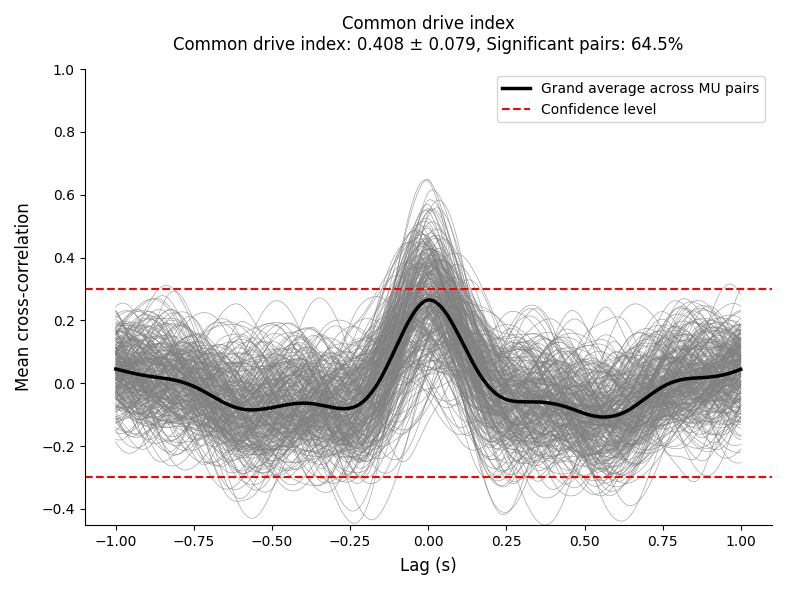
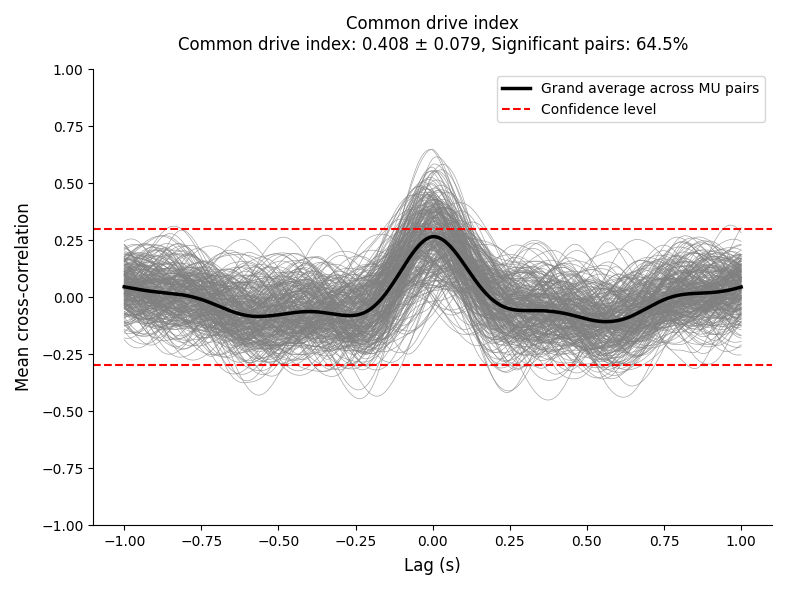
Update commonality
New examples in the commonality module and minor fix in plot_common_drive_index y limits

diff --git a/openhdemg/library/commonality.py b/openhdemg/library/commonality.py
@@ -86,6 +86,30 @@ def pooled_intramuscular_coherence(
         - "cst_duration_seconds": the duration of the cumulative spike trains
         in seconds (float).
         - "fsamp": the sampling frequency in Hz (float).
+
+    Examples
+    --------
+    Estimate pooled intramuscular coherence with overlapping windows.
+
+    >>> import openhdemg.library as emg
+    >>> emgfile = emg.emg_from_samplefile()
+    >>> coherence_results = emg.pooled_intramuscular_coherence(
+    ...     emgfile=emgfile,
+    ...     number_iterations=100,
+    ...     window_duration_seconds=1,
+    ...     overlap_seconds=0.5,
+    ... )
+    >>> coherence_results["coherence"]
+
+    Estimate coherence without overlapping windows.
+
+    >>> coherence_results = emg.pooled_intramuscular_coherence(
+    ...     emgfile=emgfile,
+    ...     number_iterations=100,
+    ...     window_duration_seconds=1,
+    ...     overlap_seconds=0,
+    ... )
+    >>> coherence_results["coherence"]
     """
 
     # ----------------------------------
@@ -366,6 +390,19 @@ def z_score_coherence(coherence_results):
 
         - "z_score": the z-scored coherence curve (numpy array)
         - "factor": the factor used for z-scoring (float)
+
+    Examples
+    --------
+    Z-score the coherence curve returned by pooled_intramuscular_coherence().
+
+    >>> import openhdemg.library as emg
+    >>> emgfile = emg.emg_from_samplefile()
+    >>> coherence_results = emg.pooled_intramuscular_coherence(
+    ...     emgfile=emgfile,
+    ...     overlap_seconds=0.5,
+    ... )
+    >>> z_score_results = emg.z_score_coherence(coherence_results)
+    >>> z_score_results["z_score"]
     """
 
     # ----------------------------------
@@ -526,6 +563,23 @@ def calculate_coherence_bands(
         the confidence level.
         - "auc_gamma": area under the coherence/z-score curve in the gamma
         band above the confidence level.
+
+    Examples
+    --------
+    Calculate frequency-band summaries from a z-scored coherence curve.
+
+    >>> import openhdemg.library as emg
+    >>> emgfile = emg.emg_from_samplefile()
+    >>> coherence_results = emg.pooled_intramuscular_coherence(
+    ...     emgfile=emgfile,
+    ...     overlap_seconds=0.5,
+    ... )
+    >>> z_score_results = emg.z_score_coherence(coherence_results)
+    >>> coherence_band_results = emg.calculate_coherence_bands(
+    ...     coherence_results=z_score_results,
+    ...     confidence_level_type="theoretical",
+    ... )
+    >>> coherence_band_results
     """
 
     # ----------------------------------
@@ -569,6 +623,14 @@ def calculate_coherence_bands(
             # 95th percentile of the standard normal distribution
         else:
             L = int(np.floor(cst_duration_seconds / window_duration_seconds))
+
+            if L <= 1:
+                raise ValueError(
+                    "The theoretical confidence level for raw coherence "
+                    "requires at least 2 non-overlapping segments. Increase "
+                    "cst_duration_seconds or reduce window_duration_seconds."
+                )
+
             confidence_level = 1 - 0.05 ** (1 / (L - 1))
     else:
         msg = (
@@ -676,6 +738,19 @@ def smooth_spiketrains_convolution(
         Smoothed MU discharge rates obtained by convolving the binary
         spike train with the specified window. Arrangement of the output array
         is the same as binary_mus_firing (samples x MUs).
+
+    Examples
+    --------
+    Smooth the binary spike trains stored in an EMG file.
+
+    >>> import openhdemg.library as emg
+    >>> emgfile = emg.emg_from_samplefile()
+    >>> binary_mus_firing = emgfile["BINARY_MUS_FIRING"].to_numpy()
+    >>> smoothed_mus_firing = emg.smooth_spiketrains_convolution(
+    ...     binary_mus_firing=binary_mus_firing,
+    ...     fsamp=emgfile["FSAMP"],
+    ... )
+    >>> smoothed_mus_firing
     """
 
     # ----------------------------------
@@ -824,6 +899,19 @@ def smoothed_dr_pca(
     we reccomend using parallel analysis as it is more robust and data-driven
     than arbitrary thresholds (e.g., eigenvalue > 1 or variance explained >
     80%).
+
+    Examples
+    --------
+    Estimate PCA components from smoothed MU discharge-rate profiles.
+
+    >>> import openhdemg.library as emg
+    >>> emgfile = emg.emg_from_samplefile()
+    >>> pca_results = emg.smoothed_dr_pca(
+    ...     emgfile=emgfile,
+    ...     method_n_components="parallel_analysis",
+    ... )
+    >>> pca_results["number_of_components_retained"]
+    >>> pca_results["explained_variance"]
     """
 
     # ----------------------------------
@@ -1166,6 +1254,15 @@ def common_drive_index(
         Segments will overlap by overlap_corr_seconds. 0.0 means no overlap.
     max_lag_seconds : float, default 0.1
         Maximum lag for cross-correlation, in seconds.
+    number_of_surrogates : int, default 2
+        Number of surrogate spike-train sets used to estimate the confidence
+        level. Surrogates are generated by independently shuffling the
+        interspike intervals of each MU.
+    confidence_percentile : float, default 95
+        Percentile of surrogate peak correlations used as the confidence level
+        to determine whether each pairwise correlation is significant.
+    random_state : int, default 42
+        Random seed for reproducible surrogate generation.
 
     Returns
     -------
@@ -1206,6 +1303,21 @@ def common_drive_index(
         corr_signals_all_pairs (numpy array).
         - "lags_seconds": lags used to calculate the cross-correlation signals
         (numpy array).
+
+    Examples
+    --------
+    Calculate the common drive index using non-overlapping 5-second
+    correlation windows.
+
+    >>> import openhdemg.library as emg
+    >>> emgfile = emg.emg_from_samplefile()
+    >>> cdi_results = emg.common_drive_index(
+    ...     emgfile=emgfile,
+    ...     window_corr_seconds=5,
+    ...     overlap_corr_seconds=0,
+    ... )
+    >>> cdi_results["pairwise_correlation"]
+    >>> cdi_results["common_drive_index_mean"]
     """
 
     # ----------------------------------
@@ -1382,6 +1494,8 @@ def common_drive_index(
         else:
             overlap_corr_samples = int(round(overlap_corr_seconds * fsamp))
     max_lag_samples = int(round(max_lag_seconds * fsamp))
+    # TODO here and in the rest of the code, round already returns an int if
+    # ndigits is omitted. Remove int().
 
     n_windows = int(
         np.floor((n_samples - segment_samples) / overlap_corr_samples) + 1
@@ -1478,10 +1592,11 @@ def common_drive_index(
             corr_values_all_windows.append(corr_values)
             if lags_seconds is None:
                 lags_seconds = lags / fsamp
-            
-            max_lag_mask = ((lags >= -max_lag_samples)
-                            & (lags <= max_lag_samples)
-            )        
+
+            max_lag_mask = (
+                (lags >= -max_lag_samples)
+                & (lags <= max_lag_samples)
+            )
             peak_correlation = np.max(corr_values[max_lag_mask])
             segment_correlations.append(peak_correlation)
 
@@ -1521,7 +1636,7 @@ def common_drive_index(
                         signal_2_surrogate,
                         lag_samples=int(round(1 * fsamp)),
                     )
-                    
+
                     surrogate_peak_correlation = np.max(
                         corr_values_surrogate[max_lag_mask]
                     )
@@ -1699,9 +1814,9 @@ def pci_index(
         Dictionary containing coherence-vs-CST-size values and fitted PCI
         values. Keys are:
 
-        - "average_coherence_df": dataframe containing the number of MUs per CST
-        and the corresponding average coherence values for each frequency band
-        (dataframe).
+        - "average_coherence_df": dataframe containing the number of MUs per
+        CST and the corresponding average coherence values for each frequency
+        band (dataframe).
         - "fitted_average_coherence_df": dataframe containing the number of MUs
         per CST and the corresponding fitted coherence values using the fitted
         A and B parameters for each frequency band (dataframe).
@@ -1713,6 +1828,18 @@ def pci_index(
     The PCI index is typically implemented only for the delta band (see Negro
     et al., 2016), but this function also fits the model and estimates the PCI
     for alpha and beta bands.
+
+    Examples
+    --------
+    Estimate the proportion of common input index.
+
+    >>> import openhdemg.library as emg
+    >>> emgfile = emg.emg_from_samplefile()
+    >>> pci_results = emg.pci_index(
+    ...     emgfile=emgfile,
+    ...     number_iterations=100,
+    ... )
+    >>> pci_results["average_coherence_df"]
     """
 
     # ----------------------------------
@@ -1807,7 +1934,7 @@ def pci_index(
             msg = (
                 f"Only {unique_split_count} unique CST group splits are "
                 "possible. number_iterations will be set to "
-                f"{unique_split_count}.",
+                f"{unique_split_count}."
             )
             warnings.warn(msg, UserWarning)
 
@@ -2222,6 +2349,18 @@ def smoothed_dr_mutualinformation(
         (communities) of the mutual-information network (int).
         - percentage_mus_first_component: percentage of MUs that
         belong to the first component (float).
+
+    Examples
+    --------
+    Estimate a mutual-information network from smoothed discharge rates.
+
+    >>> import openhdemg.library as emg
+    >>> emgfile = emg.emg_from_samplefile()
+    >>> network_results = emg.smoothed_dr_mutualinformation(
+    ...     emgfile=emgfile,
+    ... )
+    >>> network_results["pairwise_mi"]
+    >>> network_results["module_affiliation_matrix"]
     """
 
     # ----------------------------------

diff --git a/openhdemg/library/plotresults.py b/openhdemg/library/plotresults.py
@@ -811,12 +811,7 @@ def plot_common_drive_index(
             confidence_level,
         ])
 
-    min_y_value = min(values_for_ylim)
-
-    if min_y_value < 0:
-        ax1.set_ylim(min_y_value, 1)
-    else:
-        ax1.set_ylim(0, 1)
+    ax1.set_ylim(-1, 1)
 
     ax1.set_xlabel("Lag (s)", fontsize=12, labelpad=6)
     ax1.set_ylabel("Mean cross-correlation", fontsize=12, labelpad=6)